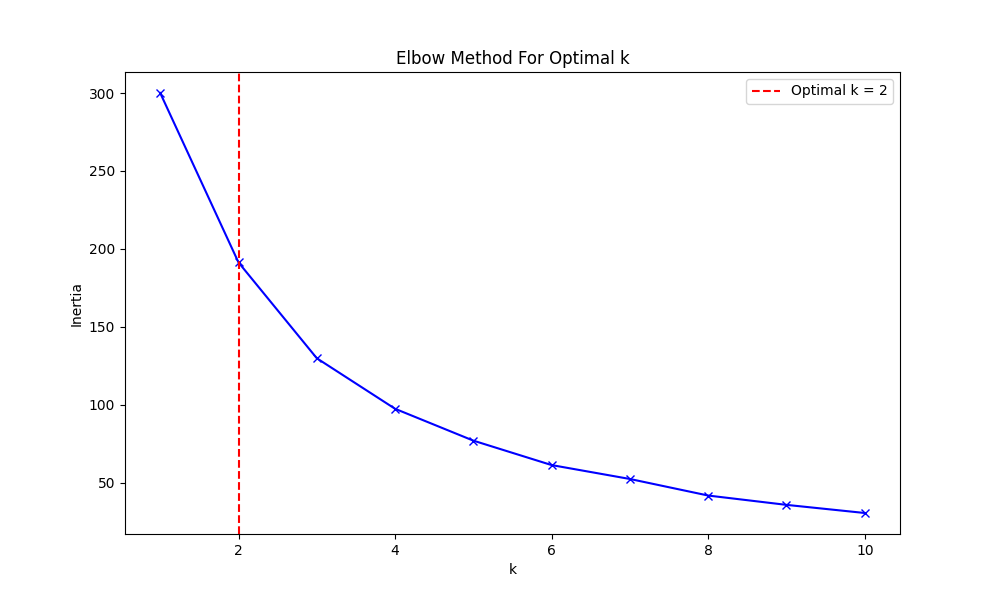
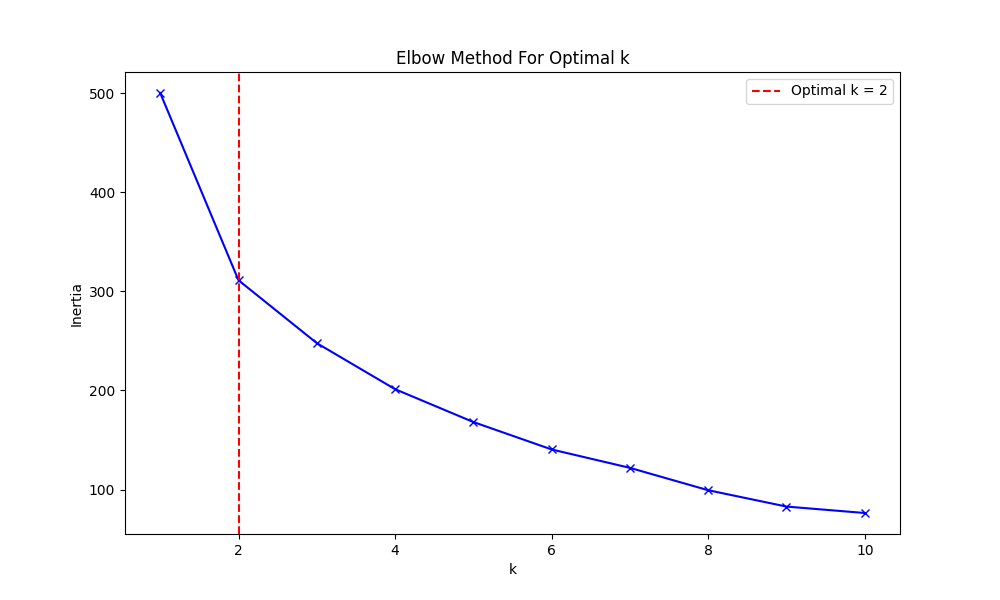
refactor clustering logic : add features and remove terminal display duplicate

diff --git a/Code/jcrec/clustering.py b/Code/jcrec/clustering.py
@@ -44,6 +44,7 @@ from sklearn.cluster import KMeans
 from sklearn.preprocessing import StandardScaler
 import matplotlib.pyplot as plt
 import os
+from sklearn.decomposition import PCA
 
 class CourseClusterer:
     """Class for clustering courses and adjusting rewards based on cluster membership.
@@ -146,27 +147,34 @@ class CourseClusterer:
         required_skills = courses[:, 0]  # Get required skills
         provided_skills = courses[:, 1]  # Get provided skills
         
-        # Calculate skill coverage and diversity metrics
         n_skills = required_skills.shape[1]
+        max_level = 3  # Maximum skill level is 3
         
-        # Calculate coverage considering both required and provided skills
-        # Coverage is now the average of required and provided skill levels
-        required_coverage = np.sum(required_skills, axis=1) / n_skills
-        provided_coverage = np.sum(provided_skills, axis=1) / n_skills
+        # 1. Coverage features 
+        required_coverage = np.sum(required_skills, axis=1) / (n_skills * max_level)
+        provided_coverage = np.sum(provided_skills, axis=1) / (n_skills * max_level)
         coverage = (required_coverage + provided_coverage) / 2
         
-        # Calculate skill diversity using entropy for both required and provided skills
-        # For required skills
+        # 2. Entropy features 
         required_distribution = required_skills / (np.sum(required_skills, axis=1, keepdims=True) + 1e-10)
         required_entropy = -np.sum(required_distribution * np.log2(required_distribution + 1e-10), axis=1)
         
-        # For provided skills
         provided_distribution = provided_skills / (np.sum(provided_skills, axis=1, keepdims=True) + 1e-10)
         provided_entropy = -np.sum(provided_distribution * np.log2(provided_distribution + 1e-10), axis=1)
         
-        # Combine metrics into features for clustering
-        # Now we have 4 features: coverage, required_entropy, provided_entropy
-        self.features = np.column_stack([coverage, required_entropy, provided_entropy])
+        # 3. Level gap features 
+        level_gap = np.abs(provided_skills - required_skills)
+        avg_level_gap = np.mean(level_gap, axis=1)
+        max_level_gap = np.max(level_gap, axis=1)
+        
+        # Combine features (reduced to 5D)
+        self.features = np.column_stack([
+            coverage,                    # 1D: Overall coverage
+            required_entropy,           # 2D: Required skills diversity
+            provided_entropy,           # 3D: Provided skills diversity
+            avg_level_gap,             # 4D: Average gap between required and provided
+            max_level_gap              # 5D: Maximum gap between required and provided
+        ])
         
         # Scale features
         features_scaled = self.scaler.fit_transform(self.features)
@@ -194,127 +202,69 @@ class CourseClusterer:
             n_formations = np.sum(self.course_clusters == i)
             print(f"Cluster {i}: {n_formations} formations")
         
-        # Visualize clusters
+        # Visualize clusters using PCA
         self.visualize_clusters(features_scaled)
         
     def visualize_clusters(self, features_scaled):
-        """Visualize the clusters using multiple 2D plots."""
-        # Create a figure with 3 subplots
-        fig, (ax1, ax2, ax3) = plt.subplots(1, 3, figsize=(20, 6))
+        """Visualize the clusters using PCA for dimensionality reduction."""
+        # Apply PCA to reduce to 2D
+        pca = PCA(n_components=2)
+        features_2d = pca.fit_transform(features_scaled)
         
-        # Plot 1: Coverage vs Required Entropy
+        # Create figure
+        plt.figure(figsize=(12, 8))
+        
+        # Plot clusters
         for i in range(self.n_clusters):
-            cluster_points = features_scaled[self.course_clusters == i]
-            n_formations = len(cluster_points)
-            
-            # Plot points
-            ax1.scatter(
-                cluster_points[:, 0],  # Coverage
-                cluster_points[:, 1],  # Required Entropy
-                label=f'Cluster {i} ({n_formations} courses)',
-                alpha=0.7,
-                s=100
-            )
-            
-            # Plot cluster center
-            center = self.cluster_centers_[i]
-            ax1.scatter(
-                center[0],
-                center[1],
-                c='black',
-                marker='x',
-                s=200,
-                linewidths=3
-            )
-        
-        ax1.set_xlabel('Skill Coverage (scaled)', fontsize=12, fontweight='bold')
-        ax1.set_ylabel('Required Skills Entropy (scaled)', fontsize=12, fontweight='bold')
-        ax1.set_title('Coverage vs Required Entropy', fontsize=14, fontweight='bold')
-        ax1.grid(True, alpha=0.3, linestyle='--')
-        
-        # Plot 2: Coverage vs Provided Entropy
-        for i in range(self.n_clusters):
-            cluster_points = features_scaled[self.course_clusters == i]
-            
-            # Plot points
-            ax2.scatter(
-                cluster_points[:, 0],  # Coverage
-                cluster_points[:, 2],  # Provided Entropy
+            cluster_points = features_2d[self.course_clusters == i]
+            plt.scatter(
+                cluster_points[:, 0],
+                cluster_points[:, 1],
                 label=f'Cluster {i} ({len(cluster_points)} courses)',
                 alpha=0.7,
                 s=100
             )
-            
-            # Plot cluster center
-            center = self.cluster_centers_[i]
-            ax2.scatter(
-                center[0],
-                center[2],
-                c='black',
-                marker='x',
-                s=200,
-                linewidths=3
-            )
         
-        ax2.set_xlabel('Skill Coverage (scaled)', fontsize=12, fontweight='bold')
-        ax2.set_ylabel('Provided Skills Entropy (scaled)', fontsize=12, fontweight='bold')
-        ax2.set_title('Coverage vs Provided Entropy', fontsize=14, fontweight='bold')
-        ax2.grid(True, alpha=0.3, linestyle='--')
-        
-        # Plot 3: Required vs Provided Entropy
-        for i in range(self.n_clusters):
-            cluster_points = features_scaled[self.course_clusters == i]
-            
-            # Plot points
-            ax3.scatter(
-                cluster_points[:, 1],  # Required Entropy
-                cluster_points[:, 2],  # Provided Entropy
-                label=f'Cluster {i} ({len(cluster_points)} courses)',
-                alpha=0.7,
-                s=100
-            )
-            
-            # Plot cluster center
-            center = self.cluster_centers_[i]
-            ax3.scatter(
-                center[1],
-                center[2],
-                c='black',
-                marker='x',
-                s=200,
-                linewidths=3
-            )
-        
-        ax3.set_xlabel('Required Skills Entropy (scaled)', fontsize=12, fontweight='bold')
-        ax3.set_ylabel('Provided Skills Entropy (scaled)', fontsize=12, fontweight='bold')
-        ax3.set_title('Required vs Provided Entropy', fontsize=14, fontweight='bold')
-        ax3.grid(True, alpha=0.3, linestyle='--')
-        
-        # Create a single legend for all subplots
-        handles, labels = ax1.get_legend_handles_labels()
-        # Add total courses to the legend
-        total_formations = len(self.course_clusters)
-        handles.append(plt.Line2D([0], [0], marker='o', color='w', markerfacecolor='none', markersize=0))
-        labels.append(f'Total Courses: {total_formations}')
-        
-        fig.legend(
-            handles, labels,
-            loc='center',
-            bbox_to_anchor=(0.5,   0.03),
-            ncol=self.n_clusters + 1,  # +1 for total courses
-            prop={'weight': 'bold', 'size': 12},
-            frameon=True,
-            framealpha=0.9,
+        # Plot cluster centers
+        centers_2d = pca.transform(self.cluster_centers_)
+        plt.scatter(
+            centers_2d[:, 0],
+            centers_2d[:, 1],
+            c='black',
+            marker='x',
+            s=200,
+            linewidths=3,
+            label='Cluster Centers'
         )
         
-        # Adjust layout to make room for the legend
-        plt.tight_layout()
-        plt.subplots_adjust(bottom=0.2)  # Make room for the legend
+        # Add labels and title
+        plt.xlabel('First Principal Component')
+        plt.ylabel('Second Principal Component')
+        plt.title('Course Clusters (PCA Visualization)')
         
-        # Save plot with high DPI for better quality
-        plot_path = os.path.join(self.clustering_dir, f'cluster_visualization_skillslevels.png')
+        # Add explained variance ratio
+        explained_variance = pca.explained_variance_ratio_
+        plt.figtext(
+            0.02, 0.02,
+            f'Explained variance: PC1={explained_variance[0]:.2%}, PC2={explained_variance[1]:.2%}',
+            fontsize=10
+        )
+        
+        # Add legend
+        plt.legend()
+        
+        # Save plot
+        plot_path = os.path.join(self.clustering_dir, f'cluster_visualization_pca.png')
         plt.savefig(plot_path, dpi=300, bbox_inches='tight')
         plt.close()
+        
+        # Print feature importance
+        print("\nFeature Importance in Principal Components:")
+        for i, component in enumerate(pca.components_):
+            print(f"\nPC{i+1}:")
+            for j, feature in enumerate(['Coverage', 'Required Entropy', 'Provided Entropy', 
+                                      'Avg Level Gap', 'Max Level Gap']):
+                print(f"{feature}: {component[j]:.3f}")
         
     def adjust_reward(self, course_idx, original_reward, prev_reward):
         """Adjust reward based on cluster membership and reward change.

diff --git a/Code/jcrec/CourseRecEnv.py b/Code/jcrec/CourseRecEnv.py
@@ -48,17 +48,19 @@ class CourseRecEnv(gym.Env):
         use_clustering (bool): Whether to use clustering for reward adjustment
     """
     
-    def __init__(self, dataset, threshold=0.5, k=1):
+    def __init__(self, dataset, threshold=0.5, k=1, is_training=False):
         """Initialize the course recommendation environment.
         
         Args:
             dataset: Dataset object containing learners, jobs, and courses
             threshold (float): Minimum matching score for job applicability
             k (int): Maximum number of course recommendations per learner
+            is_training (bool): Whether this is a training environment
         """
         self.dataset = dataset
         self.threshold = threshold
         self.k = k
+        self.is_training = is_training
         
         # Initialize basic attributes
         self.nb_skills = len(dataset.skills)  # 46 skills
@@ -79,15 +81,16 @@ class CourseRecEnv(gym.Env):
         self.prev_reward = None
         
         if self.use_clustering:
-            from clustering import CourseClusterer
             self.clusterer = CourseClusterer(
                 n_clusters=dataset.config.get("n_clusters", 5),
                 random_state=dataset.config.get("seed", 42),
                 auto_clusters=dataset.config.get("auto_clusters", False),
-                max_clusters=dataset.config.get("max_clusters", 10)
+                max_clusters=dataset.config.get("max_clusters", 10),
+                config=dataset.config.get("clustering", {})
             )
-            # Fit clusters to courses
-            self.clusterer.fit_course_clusters(dataset.courses)
+            # Only fit clusters in training environment
+            if self.is_training and self.clusterer.course_clusters is None:
+                self.clusterer.fit_course_clusters(dataset.courses)
         
         # Initialize environment state
         self.reset()

diff --git a/Code/jcrec/Reinforce.py b/Code/jcrec/Reinforce.py
@@ -60,8 +60,8 @@ class Reinforce:
         self.eval_freq = eval_freq
         
         # Create the training and evaluation environments
-        self.train_env = CourseRecEnv(dataset, threshold=self.threshold, k=self.k)
-        self.eval_env = CourseRecEnv(dataset, threshold=self.threshold, k=self.k)
+        self.train_env = CourseRecEnv(dataset, threshold=self.threshold, k=self.k, is_training=True)
+        self.eval_env = CourseRecEnv(dataset, threshold=self.threshold, k=self.k, is_training=False)
         self.get_model()
         
         # Check if model uses clustering based on config
